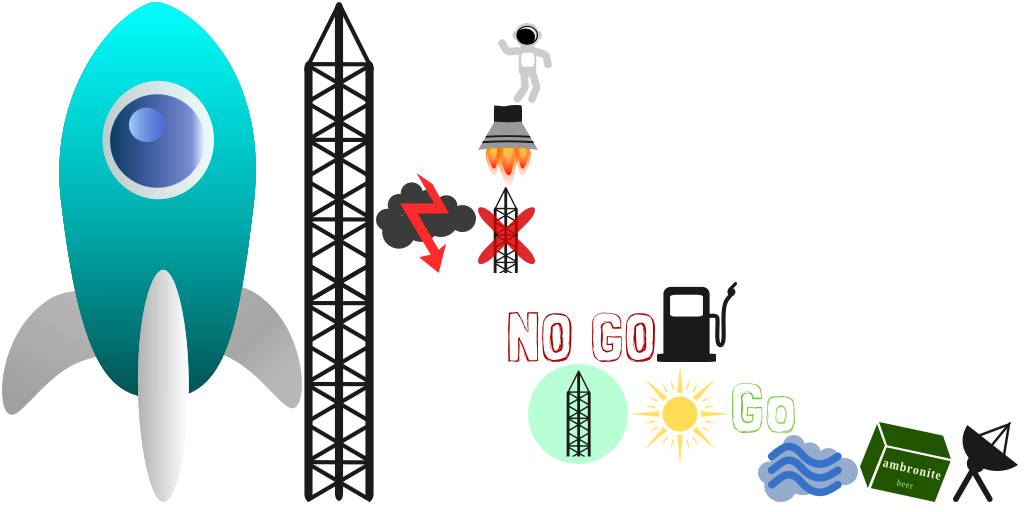
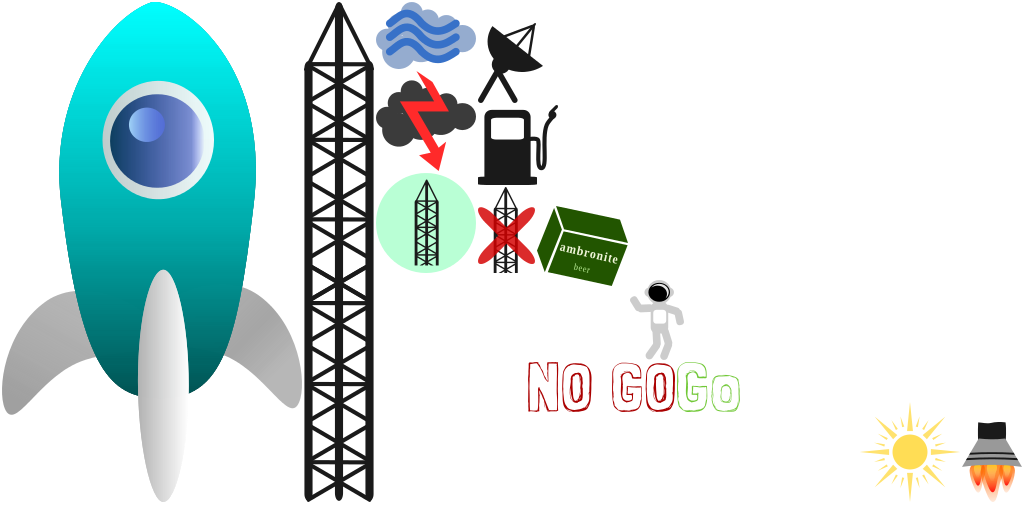
progress bars are progressing

Changed region(s): [[0.5, 0.4062, 1.0, 1.0], [0.3438, 0.0, 0.5625, 0.5312]]

diff --git a/core/src/com/spaceapps/liftoffgame/screens/GameScreen.java b/core/src/com/spaceapps/liftoffgame/screens/GameScreen.java
@@ -21,7 +21,10 @@ import com.badlogic.gdx.scenes.scene2d.utils.ClickListener;
 import com.badlogic.gdx.utils.viewport.StretchViewport;
 import com.spaceapps.liftoffgame.LiftOffGame;
 import com.spaceapps.liftoffgame.actors.ButtonActor;
+import com.spaceapps.liftoffgame.actors.ProgressBar;
 import com.spaceapps.liftoffgame.game.Game;
+import java.util.ArrayList;
+import java.util.Iterator;
 
 /**
  *
@@ -43,6 +46,8 @@ public class GameScreen extends ScreenAdapter {
   private ButtonActor goButton;
   private ButtonActor nogoButton;
   
+  private final ArrayList<ProgressBar> progressBars = new ArrayList<ProgressBar>(8);
+  
   public GameScreen() {
     spriteBatch = LiftOffGame.getInstance().getSpriteBatch();
     stage = new Stage(new StretchViewport(1024, 600), spriteBatch);
@@ -63,7 +68,7 @@ public class GameScreen extends ScreenAdapter {
     engineButton.addListener(new ClickListener() {
       @Override
       public void clicked(InputEvent event, float x, float y) {
-        System.out.println("What the hell!");
+        addProgressBar("engine", 30, "Launching engines");
       }});
     
     stage.addActor(engineButton);
@@ -75,7 +80,7 @@ public class GameScreen extends ScreenAdapter {
     cargoButton.addListener(new ClickListener() {
       @Override
       public void clicked(InputEvent event, float x, float y) {
-        System.out.println("Hello!");
+        addProgressBar("cargo", 30, "Loading cargo");
         cargoButton.setBlendColor(Color.RED);
         
         rocketCrashAnimation();
@@ -90,7 +95,7 @@ public class GameScreen extends ScreenAdapter {
     fuelButton.addListener(new ClickListener() {
       @Override
       public void clicked(InputEvent event, float x, float y) {
-        System.out.println("What's up!");
+        addProgressBar("fuel", 10f, "Fueling rocket");
       }});
     
     stage.addActor(fuelButton);
@@ -102,7 +107,7 @@ public class GameScreen extends ScreenAdapter {
     crewButton.addListener(new ClickListener() {
       @Override
       public void clicked(InputEvent event, float x, float y) {
-        System.out.println("Hi!");
+        addProgressBar("astronaut", 30, "Boarding of crew");
       }});
     
     stage.addActor(crewButton);
@@ -114,7 +119,7 @@ public class GameScreen extends ScreenAdapter {
     radarButton.addListener(new ClickListener() {
       @Override
       public void clicked(InputEvent event, float x, float y) {
-        System.out.println("Hey!");
+        addProgressBar("radar", 30, "Radar check in progress");
       }});
     
     stage.addActor(radarButton);
@@ -126,7 +131,7 @@ public class GameScreen extends ScreenAdapter {
     platformButton.addListener(new ClickListener() {
       @Override
       public void clicked(InputEvent event, float x, float y) {
-        System.out.println("Hei!");
+        addProgressBar("platform_on", 30, "Platform");
       }});
     
     stage.addActor(platformButton);
@@ -140,7 +145,7 @@ public class GameScreen extends ScreenAdapter {
     goButton.addListener(new ClickListener() {
       @Override
       public void clicked(InputEvent event, float x, float y) {
-        System.out.println("GO!");
+        
       }});
     
     stage.addActor(goButton);
@@ -154,10 +159,32 @@ public class GameScreen extends ScreenAdapter {
     nogoButton.addListener(new ClickListener() {
       @Override
       public void clicked(InputEvent event, float x, float y) {
-        System.out.println("NO GO!");
+        game.postponeStart(1200);
       }});
     
     stage.addActor(nogoButton);
+  }
+  
+  private void checkProgressBars() {
+    for (Iterator<ProgressBar> it = progressBars.iterator(); it.hasNext();) {
+      ProgressBar o = it.next();
+      if (o.isFinished()) {
+        it.remove();
+        o.remove();
+      }
+    }
+    
+    for (int i = 0; i < progressBars.size(); i++) {
+      progressBars.get(i).setPosition(400, 110 * i + 25);
+    }
+  }
+  
+  public void addProgressBar(String icon, float time, String label) {
+    ProgressBar progressBar = new ProgressBar(LiftOffGame.getInstance().resources.getNewSprite(icon), time, label);
+    progressBar.start();
+    progressBar.setPosition(400, 110 * (progressBars.size()) + 25);
+    stage.addActor(progressBar);
+    progressBars.add(progressBar);
   }
 
   @Override
@@ -167,6 +194,7 @@ public class GameScreen extends ScreenAdapter {
     
     game.act(delta);
     stage.act(delta);
+    checkProgressBars();
     
     spriteBatch.begin();
     

diff --git a/core/src/com/spaceapps/liftoffgame/actors/ProgressBar.java b/core/src/com/spaceapps/liftoffgame/actors/ProgressBar.java
@@ -1,0 +1,106 @@
+/*
+ * To change this license header, choose License Headers in Project Properties.
+ * To change this template file, choose Tools | Templates
+ * and open the template in the editor.
+ */
+package com.spaceapps.liftoffgame.actors;
+
+import com.badlogic.gdx.graphics.Color;
+import com.badlogic.gdx.graphics.g2d.Batch;
+import com.badlogic.gdx.graphics.g2d.Sprite;
+import com.badlogic.gdx.scenes.scene2d.Actor;
+import com.spaceapps.liftoffgame.LiftOffGame;
+
+/**
+ *
+ * @author craw
+ */
+public class ProgressBar extends Actor {
+  private final Sprite bar;
+  private final Sprite icon;
+  private final Sprite rectangle;
+  private float duration = 10f;
+  private float value = 0f;
+  private boolean enabled = false;
+  private final int defaultWidth;
+  private final String text;
+
+  public ProgressBar(Sprite icon, float duration, String text) {
+    bar = LiftOffGame.getInstance().resources.getNewSprite("progressbar");
+    bar.setColor(Color.GREEN);
+    bar.setAlpha(0.75f);
+    
+    rectangle = LiftOffGame.getInstance().resources.getNewSprite("rectangle");
+    rectangle.setColor(Color.BLACK);
+    rectangle.setAlpha(0.33f);
+    rectangle.setSize(520f, 100f);
+    
+    this.duration = duration;
+    defaultWidth = bar.getRegionWidth();
+    this.icon = icon;
+    
+    this.text = text;
+  }
+
+  @Override
+  public void act(float delta) {
+    super.act(delta);
+    bar.setPosition(getX(), getY());
+    int w = (int) (defaultWidth*getPercentage());
+    bar.setRegionWidth(w);
+    bar.setSize(w, bar.getHeight());
+    
+    icon.setPosition(getX() - (icon.getWidth() + 10f), getY());
+    
+    rectangle.setPosition(icon.getX() - 15, icon.getY() - 10);
+    
+    if(enabled) {
+      if (value < duration)
+        value += delta;
+      else
+        enabled = false;
+    }
+  }
+
+  @Override
+  public void draw(Batch batch, float parentAlpha) {
+    super.draw(batch, parentAlpha);
+    rectangle.draw(batch);
+    bar.draw(batch);
+    icon.draw(batch);
+    LiftOffGame.getInstance().resources.fontStandard.draw(batch, text, bar.getX(), bar.getY() + 30);
+  }
+
+  public float getDuration() {
+    return duration;
+  }
+
+  public void setDuration(float duration) {
+    this.duration = duration;
+  }
+    
+  public float getPercentage() {
+    return (value/duration);
+  }
+  
+  public boolean isFinished() {
+    return value >= duration;
+  }
+  
+  public void resetProgress() {
+    value = 0f;
+  }
+
+  public boolean isEnabled() {
+    return enabled;
+  }
+
+  public void start() {
+    enabled = true;
+  }
+  
+  public void stop() {
+    enabled = false;
+  }
+
+}

diff --git a/core/src/com/spaceapps/liftoffgame/game/Game.java b/core/src/com/spaceapps/liftoffgame/game/Game.java
@@ -96,4 +96,9 @@ public class Game {
     timeLabel = "T- " + countdown; // TODO
   }
 
+  public void postponeStart(long i) {
+    countdown += i;
+    updateTimeLabel();
+  }
+
 }
